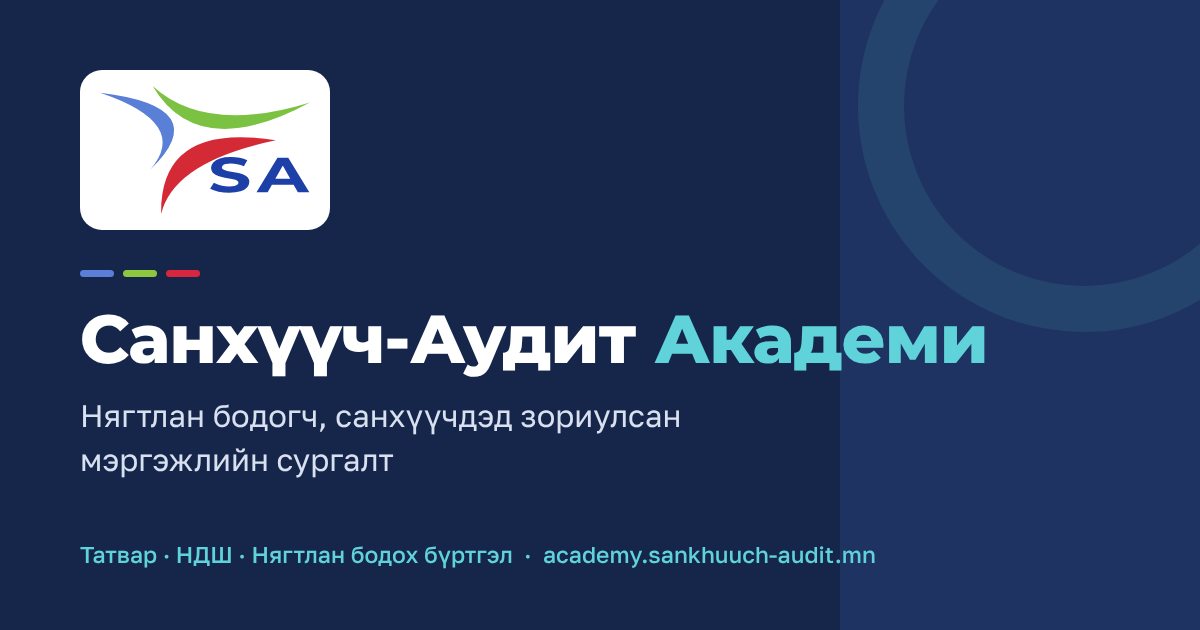
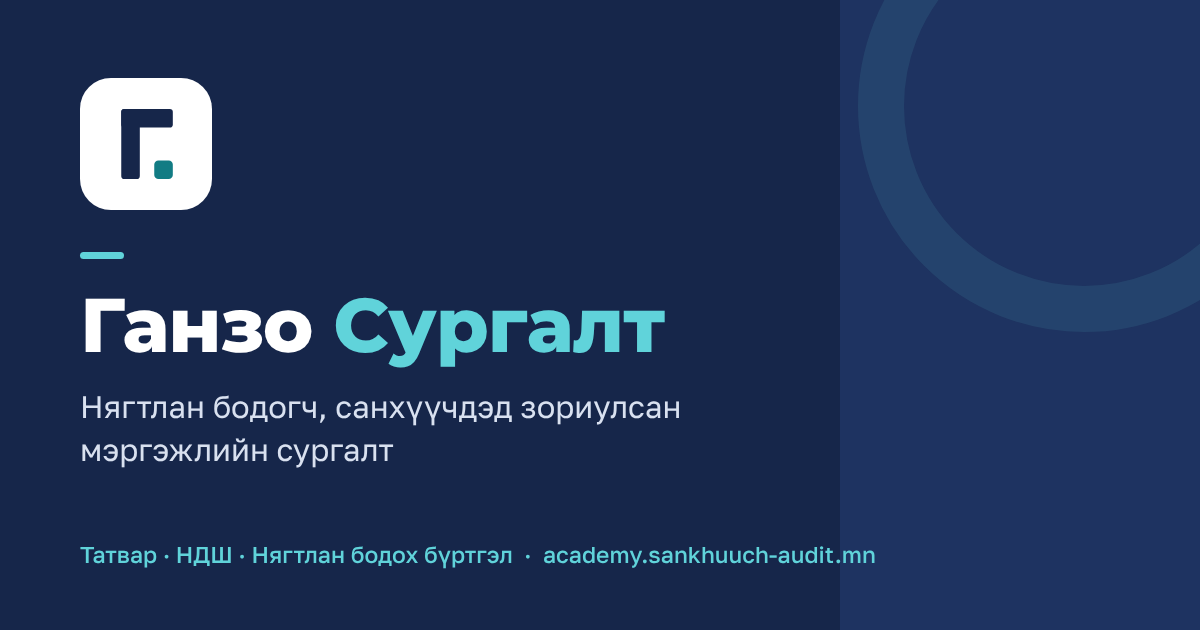
Ганзо Сургалт: хувийн сайт болгож, компанийн мэдээллийг хассан
Claude-Session: https://claude.ai/code/session_01617BaJYB3hQCgcWAf283uP

Changed region(s): [[0.0617, 0.0905, 0.8325, 0.6032], [0.0617, 0.6333, 0.5858, 0.754]]

diff --git a/src/assets/css/academy.css b/src/assets/css/academy.css
@@ -1,20 +1,25 @@
-/* Санхүүч-Аудит Академи — нэмэлт загвар
-   Үндсэн загвар site.css («Санхүүч-Аудит» ХХК-ийн сайттай ижил). Энд зөвхөн академийн хэсгүүд. */
+/* Ганзо Сургалт — нэмэлт загвар
+   Үндсэн загвар site.css. Энд зөвхөн сургалтын сайтын хэсгүүд. */
 
 /* ---------- Толгой хэсэг ---------- */
+.brand-mark { width: 40px; height: 40px; flex: none; }
 .brand-academy { color: var(--teal-ink); }
-.site-nav .nav-main-site a { color: var(--muted); font-weight: 600; }
-.site-nav .nav-main-site a::after { content: " ↗"; }
-@media (min-width: 1080px) { .site-nav .nav-main-site { display: none; } }
-@media (max-width: 1079px) { .site-nav .nav-main-site { border-top: 1px solid var(--line); margin-top: 8px; padding-top: 6px; } }
+.footer-mark { width: 52px; height: 52px; }
+@media (max-width: 380px) { .brand-mark { width: 34px; height: 34px; } }
+/* Гурван өнгийн зураасын оронд нэг ногоон зураас (хувийн брэнд) */
+.academy .tribar i { width: 26px; background: var(--teal); }
+.academy .tribar i:nth-child(n+2) { display: none; }
+.academy .eyebrow-on-dark .tribar i { background: var(--teal-light); }
 
 /* ---------- Нүүрний баннер ---------- */
-.ac-title { white-space: normal; font-size: clamp(2rem, 5.6vw, 3.1rem); line-height: 1.1; }
-.ac-stats { list-style: none; display: grid; border: 1px solid rgb(255 255 255 / .14); border-radius: var(--radius); background: rgb(255 255 255 / .03); }
-.ac-stats li { display: grid; grid-template-columns: minmax(96px, auto) minmax(0, 1fr); align-items: center; gap: 18px; padding: clamp(18px, 2.4vw, 26px); }
-.ac-stats li + li { border-top: 1px solid rgb(255 255 255 / .14); }
-.ac-stats .stat-label { margin-top: 0; }
-@media (max-width: 380px) { .ac-stats li { grid-template-columns: 1fr; gap: 6px; } .ac-stats .stat-value { font-size: 1.9rem; } }
+.ac-title { white-space: normal; font-size: clamp(2.1rem, 6vw, 3.3rem); line-height: 1.08; }
+.ac-topics { padding: clamp(20px, 2.6vw, 28px); border: 1px solid rgb(255 255 255 / .14); border-radius: var(--radius); background: rgb(255 255 255 / .03); }
+.ac-topics-h { font: 700 .76rem var(--f-head); letter-spacing: .12em; text-transform: uppercase; color: var(--teal-light); margin-bottom: 14px; }
+.ac-topics ul { list-style: none; display: grid; grid-template-columns: repeat(2, minmax(0, 1fr)); gap: 12px; }
+.ac-topics li { display: grid; gap: 4px; align-content: start; padding: 16px; border-radius: var(--radius-sm); background: rgb(255 255 255 / .05); }
+.ac-topics strong { font-family: var(--f-head); font-size: 1.02rem; color: #fff; }
+.ac-topics span { font-size: .88rem; color: var(--on-dark-muted); line-height: 1.45; }
+@media (max-width: 420px) { .ac-topics ul { grid-template-columns: 1fr; } }
 
 .section-head-copy { display: grid; gap: 10px; }
 .steps-cta { margin-top: 26px; }

diff --git a/src/assets/css/site.css b/src/assets/css/site.css
@@ -1,6 +1,5 @@
-/* “Санхүүч-Аудит” ХХК — вэбсайтын загвар
-   Брэнд: компанийн танилцуулгын гүн хөх, оюу ногоон, логоны гурван өнгийн зураас.
-   Алтлаг өнгийг зөвхөн албан ёсны баримт (зөвшөөрөл, хууль тогтоомж) тэмдэглэхэд ашиглана. */
+/* Ганзо Сургалт — үндсэн загвар
+   Өнгө: гүн хөх, оюу ногоон. Алтлаг өнгийг анхааруулга, тэмдэглэлд ашиглана. */
 
 :root {
   --navy: #16264a;

diff --git a/src/assets/js/site.js b/src/assets/js/site.js
@@ -1,4 +1,4 @@
-/* “Санхүүч-Аудит” ХХК — вэбсайтын жижиг скрипт (гадны сан ашиглаагүй) */
+/* Ганзо Сургалт — вэбсайтын жижиг скрипт (гадны сан ашиглаагүй) */
 (function () {
   "use strict";
 

diff --git a/README.md b/README.md
@@ -1,6 +1,6 @@
-# Санхүүч-Аудит Академи
+# Ганзо Сургалт
 
-**academy.sankhuuch-audit.mn** нь “Санхүүч-Аудит” ХХК-ийн төлбөртэй сургалтын сайт.
+**academy.sankhuuch-audit.mn** нь нягтлан бодогч, санхүүчдэд зориулсан төлбөртэй сургалтын хувийн сайт.
 Сайт нь сургалтыг танилцуулж, бүртгэл хүлээн авна. Хичээлийн бичлэг сайт дээр байрлахгүй,
 зөвхөн төлбөр төлсөн суралцагчид Google Classroom-оор хандана.
 
@@ -20,10 +20,10 @@
 ## Бүртгэл хэрхэн ажилладаг вэ
 
 1. Суралцагч `/burtguuleh/` хуудасны маягтыг бөглөнө.
-2. Бүртгэл **info@sankhuuch-audit.mn** хаягт «Сургалтын бүртгэл: …» гарчигтай имэйлээр ирнэ
+2. Бүртгэл «Ерөнхий тохиргоо»-ны имэйл хаягт «Сургалтын бүртгэл: …» гарчигтай имэйлээр ирнэ
    (FormSubmit үйлчилгээгээр, үнэгүй). Имэйлийн **Reply** дарахад суралцагч руу шууд хариу бичигдэнэ.
 3. Суралцагч руу төлбөрийн нэхэмжлэх (дансны дугаар эсвэл QPay) илгээнэ.
-4. Төлбөр орсны дараа И-баримт олгож, суралцагчийн Google хаягийг Google Classroom-ийн ангид урина.
+4. Төлбөр орсны дараа суралцагчийн Google хаягийг Google Classroom-ийн ангид урина.
 
 ## Google Classroom тохируулах
 
@@ -40,7 +40,7 @@
 
 - Сайтыг [Eleventy](https://www.11ty.dev/) 3 бүтээж, GitHub Actions-ээр GitHub Pages дээр байршуулна (үнэгүй).
 - `src/content/courses/` — сургалтууд (Markdown), `src/_data/` — тохиргоо, түгээмэл асуулт.
-- `src/assets/css/site.css` нь үндсэн сайтын загвар, `academy.css` нь академийн нэмэлт загвар.
+- `src/assets/css/site.css` нь үндсэн загвар, `academy.css` нь сургалтын сайтын нэмэлт загвар.
 - Бүртгэлийн маягтын скрипт: `src/assets/js/register.js`.
 
 ```sh
